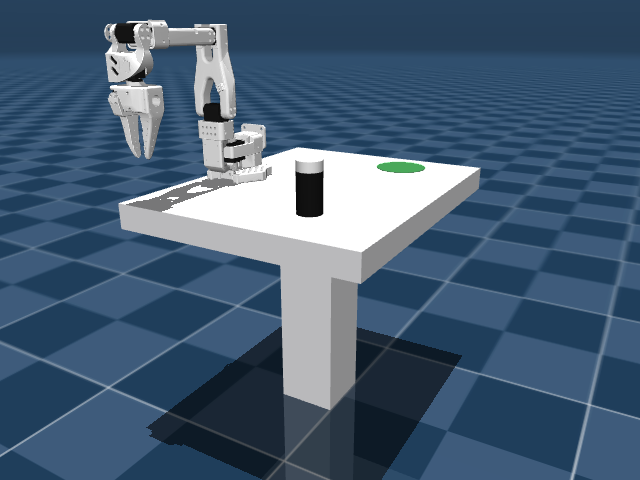
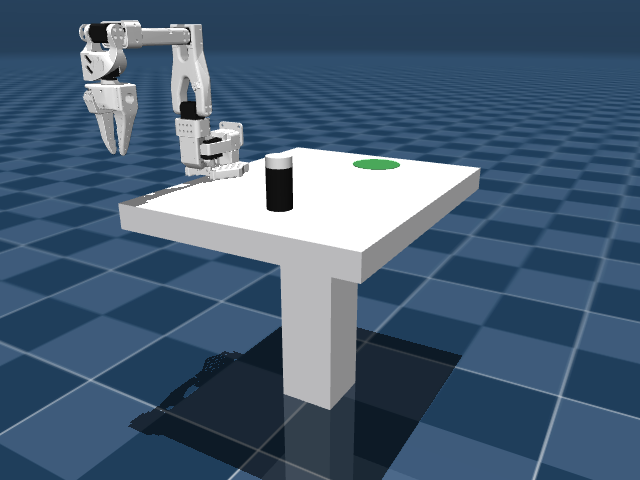
Pin robot base to the real measured edge, add 4-dot calibration photo
Robot base was placed 5cm inside the table edge as an unmeasured
placeholder. Now flush with the midpoint of one 50cm edge, derived
from the measured centerline (25cm+25cm split) and 28cm offset line:
robot base = (x=0, y=25cm) in the 4-corner-dot calibration frame
(dots inset 2in/5.08cm from each table corner).

Re-verified: all collision/grasp checks still pass (only the table
moved relative to the fixed arm, not the arm/object relationship).

diff --git a/sim_mujoco/README.md b/sim_mujoco/README.md
@@ -88,15 +88,17 @@ macOS build. This `sim_mujoco/` directory is the Mac-native path, and lines up w
 for the current table/object dimensions. What's matched and what's still assumed:
 
 - **Matched**: table footprint (40cm x 50cm, white), shaker dimensions (1.5in dia x 3in tall,
-  black body / white cap).
-- **Assumed, not measured**: where exactly the robot's base sits on the real desk relative to the
-  workspace_marked.jpg red-tape zone (the sim places it 5cm inside one edge, centered); table
-  thickness/height off the floor; the shaker's actual mass; the object's/target's X-Y position on
-  the table (currently arbitrary points within the footprint, not matched to where you'll actually
-  place the shaker when recording).
-- The red-tape zone in `workspace_marked.jpg` isn't numerically measured yet — if you measure its
-  actual width/height and its offset from a table edge, send that over and the table/object
-  placement in `scene_pick_place.xml` can be made exact instead of assumed.
+  black body / white cap), robot base position.
+- **Robot base placement**: flush with the midpoint of one 50cm edge (x=0, centered in y) —
+  derived from the measured centerline (50cm length split 25/25) and the 28cm offset line from
+  that edge. In the 4-corner-dot calibration frame (dots placed 2in/5.08cm in from each table
+  corner; origin at the table corner, x:[0,40cm] width, y:[0,50cm] length), this is
+  **robot base = (x=0, y=25cm)**. The 4 dots themselves sit at (5.08, 5.08), (34.92, 5.08),
+  (5.08, 44.92), (34.92, 44.92) in that frame.
+- **Still assumed, not measured**: table thickness/height off the floor; the shaker's actual mass
+  (35g placeholder); the object's/target's exact X-Y position on the table (currently arbitrary
+  points within the footprint, not matched to where you'll actually place the shaker when
+  recording — update these once you've picked your real start/target spots).
 
 ## Running
 
